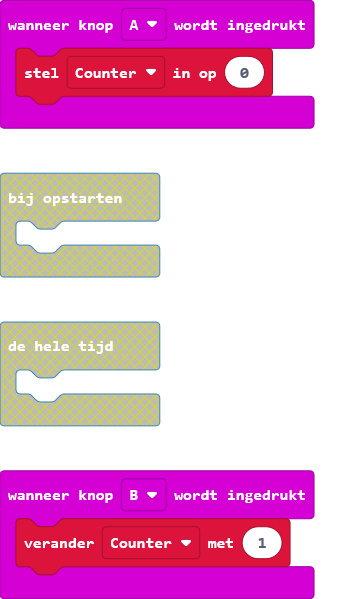
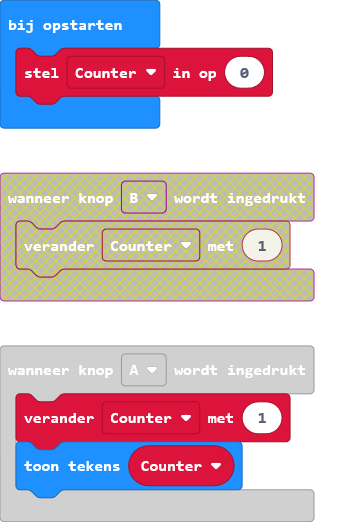
Verwijder knop B

diff --git a/main.ts b/main.ts
@@ -1,7 +1,6 @@
-let Counter = 0
 input.onButtonPressed(Button.A, function () {
-    Counter = 0
-})
-input.onButtonPressed(Button.B, function () {
     Counter += 1
+    basic.showString("" + (Counter))
 })
+let Counter = 0
+Counter = 0
